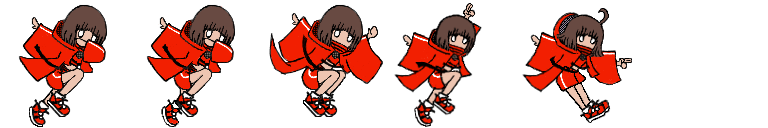
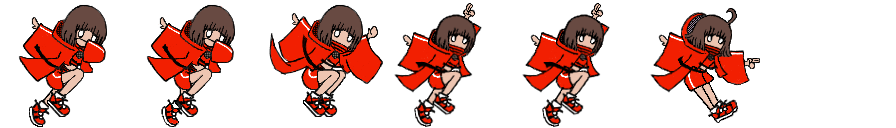
shotアニメーションを調整

diff --git a/SHU/main_test.js b/SHU/main_test.js
@@ -8,7 +8,7 @@ var POINT_RATIO_X3_ZONE = SCREEN_CENTER_X / 4;   // 得点3倍ゾーン
 
 var FONT_FAMILY = "'Press Start 2P','Meiryo',sans-serif";
 var ASSETS = {
-    "player": "./resource/shinobi_128_anim.png?202203191035",
+    "player": "./resource/shinobi_128_anim.png?202203191040",
     "pl_shuriken": "./resource/shuriken.png",
     "ene_shuriken": "./resource/shuriken.png",
 
@@ -617,13 +617,13 @@ tm.define("Player", {
             frame: {
                 width: 128,
                 height: 128,
-                count: 6
+                count: 7
             },
-            // アニメーションの定義（開始コマ、終了コマ、次のアニメーション）
+            // アニメーションの定義（開始コマ、終了コマ+1、次のアニメーション、表示インターバル）
             animations: {
                 "stand": [0, 2, "stand", 10],
                 "jump": [1, 3, "stand", 10],
-                "shot": [3, 5, "stand", 5],
+                "shot": [3, 6, "stand", 5],
             }
         });
 

diff --git a/SHU/index_test.html b/SHU/index_test.html
@@ -40,7 +40,7 @@
     <script src="https://cdn.jsdelivr.net/gh/phi-jp/tmlib.js@0.3.0/build/tmlib.js"></script>
     <script src="https://cdnjs.cloudflare.com/ajax/libs/howler/2.1.2/howler.min.js"></script>
     <script src='enum.js'></script>
-    <script src='main_test.js?202203191035'></script>
+    <script src='main_test.js?202203191041'></script>
 </head>
 
 <body>
